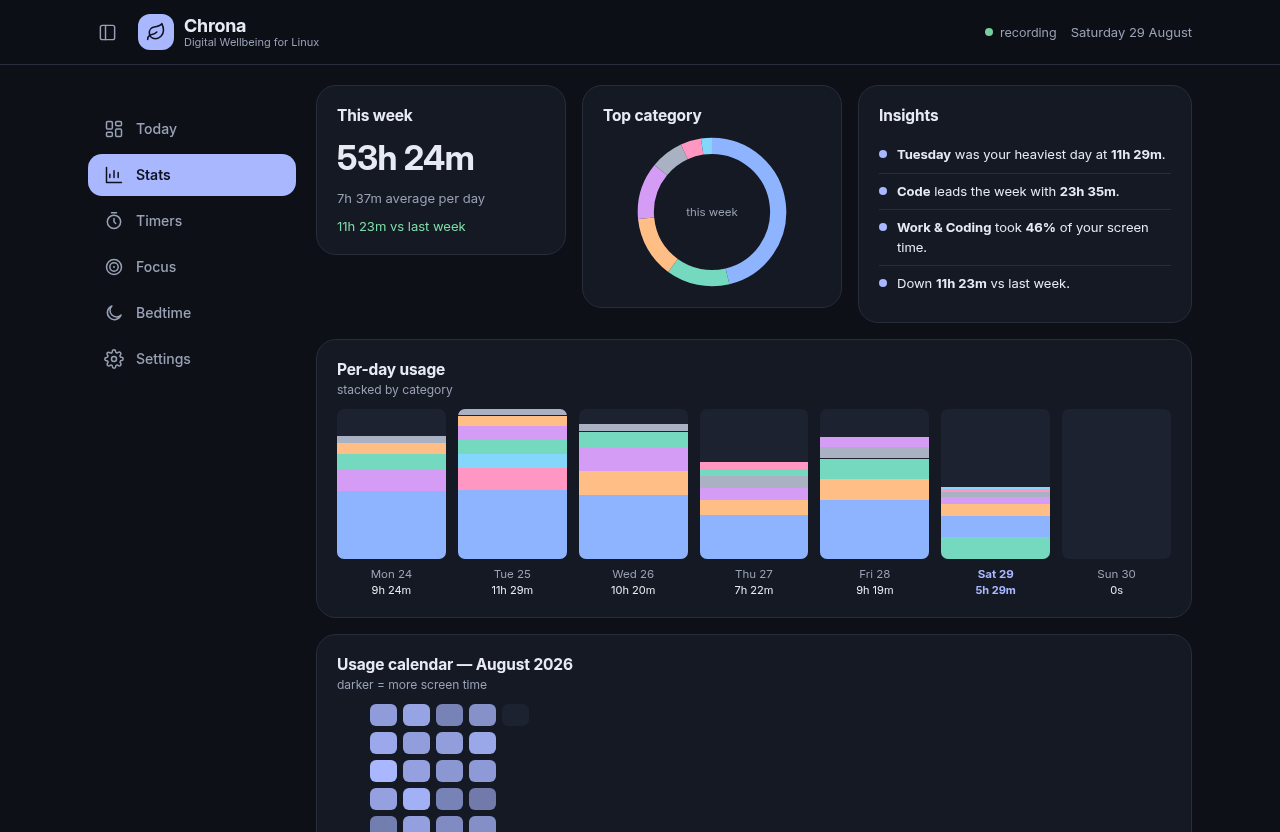
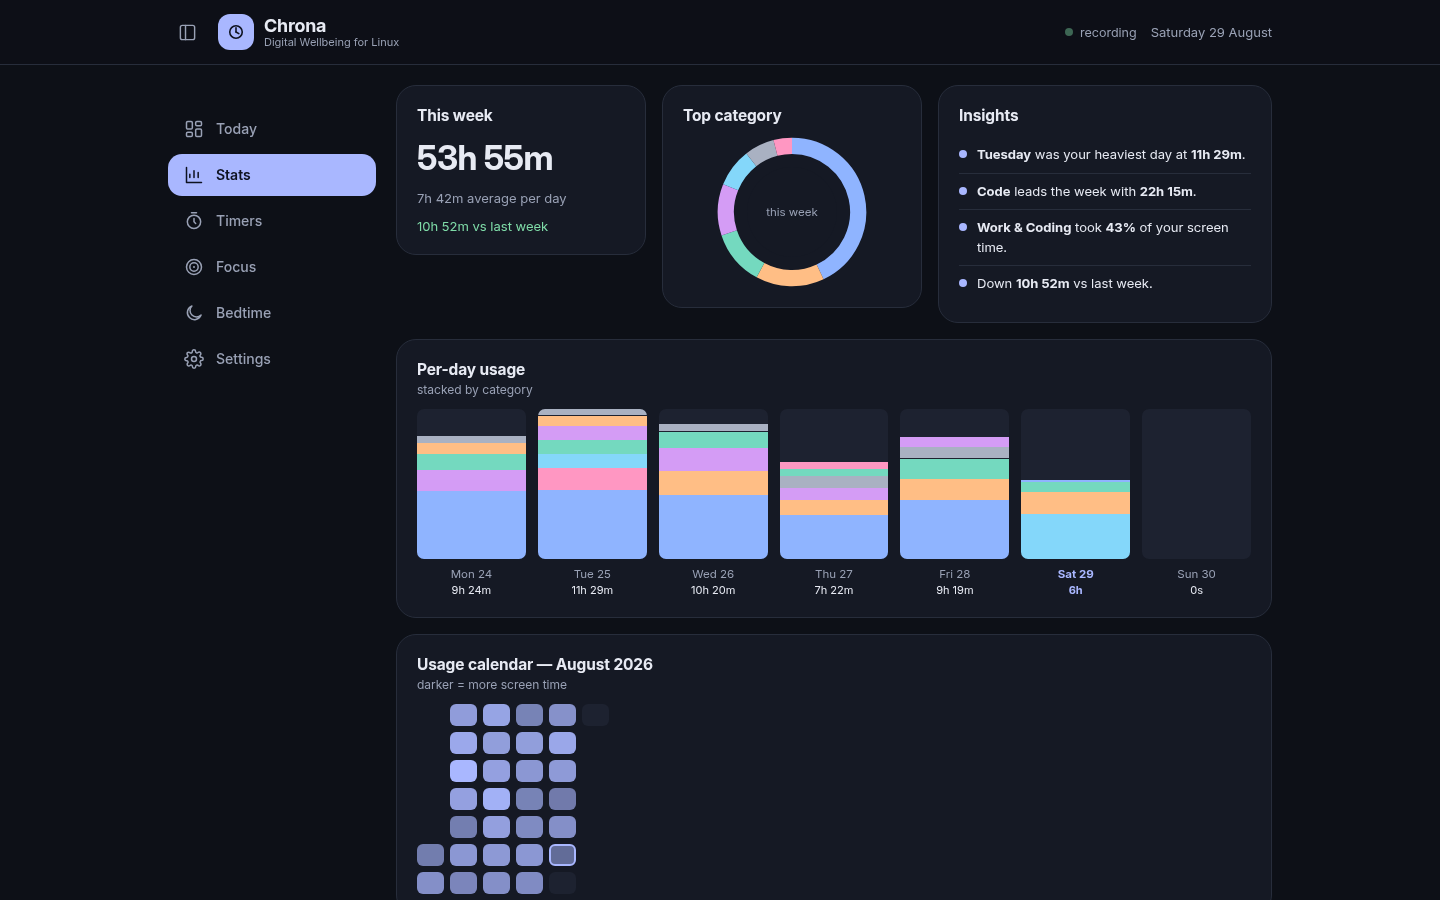
Production README and brand refresh
- New Material You app icon (gradient ring-clock): assets/icon.svg plus
  128/256/512 PNG exports; assets/logo.svg refreshed transparent mark
- GitHub social preview banner: docs/brand/social-preview.png (1280x640)
- Re-captured every screenshot from the live demo harness: real .desktop
  app icons visible, forced light/dark themes, all six views
- README rewritten production-grade: centered header + badge row (CI,
  release, license, platform, no-network, Rust+Slint), hero screenshot,
  feature grid, screenshot gallery with collapsible extras, compact
  competitor matrix, FAQ, honest install section; fixed clone URL
  (chrona-linux -> CodeAbhi826), AUR marked planned, PKGBUILD path shown
- PKGBUILD: correct repo URL; install icon.svg + PNG hicolor icons
- demo web: topbar brand tile is now the Chrona ring mark, /icon.svg
  favicon route, seed window title references the real repo slug
- .gitignore: __pycache__

diff --git a/tools/demo/web/index.html b/tools/demo/web/index.html
@@ -4,7 +4,7 @@
 <meta charset="utf-8">
 <meta name="viewport" content="width=device-width, initial-scale=1">
 <title>Chrona — Digital wellbeing for Linux</title>
-<link rel="icon" href="/logo.svg" type="image/svg+xml">
+<link rel="icon" href="/icon.svg" type="image/svg+xml">
 <link rel="stylesheet" href="/style.css">
 </head>
 <body>
@@ -16,7 +16,7 @@
     </button>
     <div class="brand">
       <span class="logo-tile">
-        <svg viewBox="0 0 24 24"><path d="M11 20A7 7 0 0 1 9.8 6.1C15.5 5 17 4.48 19 2c1 2 2 4.18 2 8 0 5.5-4.78 10-10 10Z"/><path d="M2 21c0-3 1.85-5.36 5.08-6C9.5 14.52 12 13 13 12"/></svg>
+        <svg viewBox="0 0 24 24"><circle cx="12" cy="12" r="7.5"/><path d="M12 12V7"/><path d="M12 12l3.4 2"/></svg>
       </span>
       <div class="brand-text">
         <span class="brand-name">Chrona</span>

diff --git a/tools/demo/server.py b/tools/demo/server.py
@@ -103,6 +103,8 @@ class Handler(BaseHTTPRequestHandler):
             cand = os.path.join(WEB, os.path.basename(u.path))
             if os.path.isfile(cand):
                 return self._file(cand)
+        if u.path == "/icon.svg":
+            return self._file(os.path.join(REPO, "assets", "icon.svg"), cache="public, max-age=3600")
         if u.path in ("/logo.svg", "/favicon.svg"):
             return self._file(os.path.join(REPO, "assets", "logo.svg"), cache="public, max-age=3600")
         # bundled app icons (web demo only) — safe basename inside web/icons/

diff --git a/tools/demo/seed.py b/tools/demo/seed.py
@@ -23,7 +23,7 @@ import time
 TITLES = {
     "firefox": [
         "Arch Wiki — pacman",
-        "GitHub · chrona-linux/chrona",
+        "GitHub · CodeAbhi826/chrona",
         "Hacker News",
         "r/linux — Reddit",
         "Gmail — Inbox (3)",

diff --git a/README.md b/README.md
@@ -1,82 +1,106 @@
+<div align="center">
+
+<img src="assets/icon.svg" width="128" alt="Chrona icon" />
+
 # Chrona
 
-**Digital wellbeing for every Linux desktop.** Screen time, per-app usage, category breakdowns and daily goals — with a Material You dashboard, a tiny always-on daemon, and **zero network access. Ever.**
+**Digital wellbeing for every Linux desktop.**
 
-<p>
-  <img alt="license" src="https://img.shields.io/badge/license-MIT-blue.svg">
-  <img alt="platform" src="https://img.shields.io/badge/platform-Linux-1793D1?logo=linux&logoColor=white">
-  <img alt="made with" src="https://img.shields.io/badge/made%20with-Rust%20%2B%20Slint-DEA584">
-</p>
+Screen time, per-app usage, category breakdowns and daily goals —
+a Material You dashboard on top of a tiny Rust daemon.
+**Zero network access. Ever.**
 
-<p align="center">
-  <img src="assets/logo.svg" width="96" alt="Chrona logo">
-</p>
+[![CI](https://github.com/CodeAbhi826/chrona/actions/workflows/ci.yml/badge.svg)](https://github.com/CodeAbhi826/chrona/actions/workflows/ci.yml)
+[![Release](https://img.shields.io/badge/release-v0.2.0-0B57D0)](https://github.com/CodeAbhi826/chrona/releases)
+[![License: MIT](https://img.shields.io/badge/license-MIT-blue.svg)](LICENSE)
+[![Platform](https://img.shields.io/badge/platform-Linux-1793D1?logo=linux&logoColor=white)](#compositor-support)
+[![Network](https://img.shields.io/badge/network-none-success)](#does-chrona-ever-touch-the-network)
+[![Made with Rust + Slint](https://img.shields.io/badge/made%20with-Rust%20%2B%20Slint-DEA584)](#architecture)
 
-Chrona is a from-scratch, Google-Digital-Wellbeing-style time tracker for the Linux desktop:
+[Features](#features) · [Screenshots](#screenshots) · [Install](#install) · [Compositor support](#compositor-support) · [Comparison](#how-chrona-compares) · [Scripting](#scripting-the-daemon) · [Roadmap](#roadmap) · [FAQ](#faq)
 
-- **Today / Week / Month dashboards** — total screen time, day timeline strip, hourly timeline, category donut, per-day stacked bars, month heatmap, week-over-week comparison.
-- **Per-app and per-window detail** — every app gets usage time, session counts and its most-used window titles (documents, sites, projects). PWAs (installed web apps) are tracked as first-class apps with their own name and icon.
-- **Smart categorisation** — built-in rules map apps to Work / Browsers / Communication / Media / Creative / Games / System, and title rules catch streaming inside browsers (Netflix in Firefox counts as *Media*, not *Browsers*). Your own rules always win.
-- **Real app names and icons** — the daemon resolves window ids against freedesktop `.desktop` entries (StartupWMClass, exec name, PWA app-ids), so rows show "LibreOffice Writer" with its real icon, not a machine id. Served to both the native UI and the web demo.
-- **Daily goals** — an overall **screen-time goal** plus per-app or per-category daily limits; exceeded limits are flagged on the dashboard, and the daemon runs an escalating notification sequence: a heads-up at 90 % of a limit, a critical notification the moment it is crossed, and optional reminders every 15 minutes while you stay over it.
-- **AFK-aware** — idle and lock-screen time is detected and subtracted (and shown as *away* time), so "screen time" means *actually at the machine*, with an Android-style **unlocks** counter.
-- **Pause tracking** — one switch (Settings, or the API) suspends recording; paused time is counted as away, never as usage.
-- **Native and lightweight** — a Rust daemon (~10 MB RAM, systemd user service) plus a GPU-accelerated Slint GUI. No Electron, no Chromium, no browser engine — the whole stack idles around ~50 MB.
-- **Private by architecture** — storage is one local SQLite file, the API is a Unix socket with `0600` permissions, and there is no telemetry, sync or network code to opt out of. Export everything to JSON or CSV anytime.
+<img src="docs/screenshots/today.png" width="880" alt="Chrona — Today dashboard with screen-time ring, hourly timeline, and per-app list with real icons" />
+
+</div>
+
+---
+
+Chrona is a from-scratch, [Digital Wellbeing](https://www.android.com/digital-wellbeing/)-style
+time tracker for the Linux desktop. A ~10 MB Rust daemon records which window
+is focused and subtracts the time you were away; a native Slint GUI (or the
+browser demo) turns that into rings, timelines and heatmaps; and a rules
+engine maps everything to categories you can re-edit at any time. Storage is
+one SQLite file on your disk — there is no account, no sync and no telemetry,
+because there is no network code at all.
+
+## Features
+
+- **Today / Week / Month dashboards** — screen-time ring with goal progress, day timeline strip, hourly activity bars, category donut, per-day stacked bars, month heatmap and week-over-week comparison.
+- **Per-app and per-window detail** — every app gets usage time, session counts and its most-used window titles (documents, sites, projects), expandable right in the list.
+- **Real app names and icons** — window IDs are resolved against freedesktop `.desktop` entries (`StartupWMClass`, exec name, PWA app-id), so rows show *LibreOffice Writer* with its real icon, not a machine ID.
+- **PWAs as first-class apps** — installed web apps (Chrome/Brave "Install app…") get their own name, icon and stats instead of counting as browser time.
+- **Smart categorisation** — built-in rules map apps to Work / Browsers / Communication / Media / Creative / Games / System, and title rules catch streaming inside browsers (Netflix in Firefox counts as *Media*, not *Browsers*). Your rules always win — and editing one re-categorises your entire history, because rules run at query time.
+- **Goals that escalate** — an overall screen-time goal plus per-app or per-category daily limits. You get a heads-up at 90 % of a limit, a critical notification the moment it is crossed, and optional reminders every 15 minutes while you stay over it.
+- **AFK-aware by design** — idle and lock-screen time is detected and subtracted (and shown as *away* time), so screen time means *actually at the machine*, with an Android-style unlocks counter.
+- **Pause tracking** — one switch (Settings, or the API) suspends recording; paused time counts as away, never as usage.
+- **Native and lightweight** — Rust daemon (systemd user service, ~10 MB RAM) plus a GPU-accelerated Slint GUI. No Electron, no Chromium, no browser engine — the whole stack idles around ~50 MB.
+- **Private by architecture** — one local SQLite file, a Unix-socket API with `0600` permissions, and no telemetry, sync or network code to opt out of. Export everything to JSON or CSV anytime.
 
 ## Screenshots
 
-Captured from the live demo harness (`tools/demo`) — the real daemon, simulated watcher feed:
+Captured from the live demo harness ([`tools/demo`](tools/demo/README.md)) —
+the real daemon and rules engine, a simulated window-event feed, real icons
+resolved from `.desktop` files:
 
-<p align="center">
-  <img src="docs/screenshots/today-material-you.png" width="49%" alt="Today — Material You (default theme)">
-  <img src="docs/screenshots/today-windows.png" width="49%" alt="Today — expandable per-window titles">
-</p>
-<p align="center">
-  <img src="docs/screenshots/stats-material-you.png" width="49%" alt="Stats — per-day stacked, usage calendar, insights">
-  <img src="docs/screenshots/timers-material-you.png" width="49%" alt="Timers — daily limits per app/category">
-</p>
-<p align="center">
-  <img src="docs/screenshots/focus-material-you.png" width="49%" alt="Focus — session timer">
-  <img src="docs/screenshots/today-dark.png" width="49%" alt="Today — dark theme">
-</p>
+| Today — dashboards, goals, real icons | Today — expandable per-window titles |
+|---|---|
+| <img src="docs/screenshots/today.png" width="430" alt="Today view" /> | <img src="docs/screenshots/today-windows.png" width="430" alt="Per-window titles" /> |
 
-## Compositor support
+| Stats — week bars, heatmap, insights | Timers — daily limits per app / category |
+|---|---|
+| <img src="docs/screenshots/stats.png" width="430" alt="Stats view" /> | <img src="docs/screenshots/timers.png" width="430" alt="Timers view" /> |
 
-| Session | Window tracking | Idle tracking | Notes |
-|---|---|---|---|
-| **KDE Plasma 6 (Wayland)** | ✅ KWin script → D-Bus | ✅ ScreenSaver D-Bus | One-click install from Settings |
-| **Sway / Hyprland / river / niri** (Wayland) | ✅ `wlr-foreign-toplevel` | ✅ `ext-idle-notify` | Works out of the box |
-| **Any X11 session** (incl. KDE/GNOME on X11) | ✅ EWMH polling | ✅ MIT-SCREEN-SAVER | Works out of the box |
-| **GNOME Wayland** | ⚠ v0.2: no window events | ✅ ScreenSaver D-Bus | Needs a GNOME Shell extension — see [the roadmap](#roadmap) |
-| PWAs | ✅ | ✅ | PWAs are separate windows with their own titles, so they are tracked like any app |
+| Bedtime — schedule + greyscale preview | Today — dark theme |
+|---|---|
+| <img src="docs/screenshots/bedtime.png" width="430" alt="Bedtime view" /> | <img src="docs/screenshots/today-dark.png" width="430" alt="Today, dark theme" /> |
 
-KDE Wayland deserves a note: KWin intentionally does not implement the
-`wlr-foreign-toplevel` protocol other compositors use. Chrona ships a tiny
-KWin script (~30 lines) that reports window activations over the session
-bus — the same trick nothing else on the market combines with a full GUI.
+<details>
+<summary><b>More screenshots</b> — Focus timer, Settings, Stats in dark</summary>
+
+| Focus — session timer | Settings |
+|---|---|
+| <img src="docs/screenshots/focus.png" width="430" alt="Focus view" /> | <img src="docs/screenshots/settings.png" width="430" alt="Settings view" /> |
+
+<img src="docs/screenshots/stats-dark.png" width="620" alt="Stats, dark theme" />
+
+</details>
 
 ## Install
 
-### Arch Linux (AUR)
+### From source (any distro)
+
+Requires [Rust](https://rustup.rs/) (stable) and a Linux desktop. The build is
+dependency-light — SQLite is bundled, Wayland/X11 libraries are loaded at
+runtime.
 
 ```bash
-yay -S chrona            # release build
-# or: yay -S chrona-git  # from source, tracks main
-```
-
-### From source
-
-```bash
-git clone https://github.com/chrona-linux/chrona
+git clone https://github.com/CodeAbhi826/chrona
 cd chrona
 cargo build --release -p chronad -p chrona
 install -Dm755 target/release/{chronad,chrona} -t ~/.local/bin/
 install -Dm644 packaging/chrona.service ~/.config/systemd/user/
 ```
 
-Requires: Rust (stable), a Linux desktop. The build is dependency-light —
-SQLite is bundled, Wayland/X11 are loaded at runtime.
+### Arch Linux
+
+An AUR package is planned; until then, build with the packaged
+[`PKGBUILD`](packaging/PKGBUILD) (installs binaries, systemd unit, `.desktop`
+entry and hicolor icons):
+
+```bash
+cd chrona/packaging
+makepkg -si
+```
 
 ### First run
 
@@ -85,8 +109,8 @@ systemctl --user enable --now chrona   # start the daemon at every login
 chrona                                 # open the dashboard
 ```
 
-On **KDE Plasma Wayland**, click **Install KWin watcher** in Chrona →
-Settings (or run `./kwin/install.sh`), then focus a few windows.
+On **KDE Plasma Wayland**, click **Install KWin watcher** in Chrona → Settings
+(or run `./kwin/install.sh`), then focus a few windows.
 
 On **Sway / Hyprland / river / niri / any X11 session**, tracking starts
 immediately — nothing to install.
@@ -108,7 +132,22 @@ events are fake:
 
 Details in [tools/demo/README.md](tools/demo/README.md).
 
-## The design, in one picture
+## Compositor support
+
+| Session | Window tracking | Idle tracking | Notes |
+|---|---|---|---|
+| **KDE Plasma 6 (Wayland)** | ✅ KWin script → D-Bus | ✅ ScreenSaver D-Bus | One-click install from Settings |
+| **Sway / Hyprland / river / niri** (Wayland) | ✅ `wlr-foreign-toplevel` | ✅ `ext-idle-notify` | Works out of the box |
+| **Any X11 session** (incl. KDE/GNOME on X11) | ✅ EWMH polling | ✅ MIT-SCREEN-SAVER | Works out of the box |
+| **GNOME Wayland** | ⚠ v0.2: no window events | ✅ ScreenSaver D-Bus | Needs a GNOME Shell extension — see [the roadmap](#roadmap) |
+| PWAs | ✅ | ✅ | PWAs are separate windows with their own titles, so they are tracked like any app |
+
+KDE Wayland deserves a note: KWin intentionally does not implement the
+`wlr-foreign-toplevel` protocol other compositors use. Chrona ships a tiny
+KWin script (~30 lines) that reports window activations over the session
+bus — the same trick nothing else on the market combines with a full GUI.
+
+## Architecture
 
 ```
 ┌────────────────────────────── your session ──────────────────────────────┐
@@ -160,38 +199,76 @@ echo '{"id":3,"cmd":"rule.add","args":{"pattern":"kitty|konsole","field":"app","
 Editing rules re-categorises your **entire history** — categorisation happens
 at query time, never at write time.
 
-## Why not…?
+## How Chrona compares
 
-- **ActivityWatch?** Great tracker, web-based dashboard, but no goals, no
-  enforcement, and on KDE Wayland you need awatcher + workarounds. Chrona is
-  native, single-purpose and goal-oriented. (Full comparison:
-  [docs/COMPETITORS.md](docs/COMPETITORS.md).)
-- **Electron?** A wellbeing app that costs 300 MB of RAM to show you a ring
-  chart is its own punchline. Chrona is Rust end-to-end.
-- **A browser extension for per-URL tracking?** On the roadmap — PWAs and
-  app-mode windows already get title-level tracking for free.
+The short version (the [full matrix](docs/COMPETITORS.md) covers six tools
+and forty capabilities):
 
-## Fonts & theming
+| | Chrona | ActivityWatch | RescueTime | Google Digital Wellbeing |
+|---|---|---|---|---|
+| 100 % local, no account | ✅ | ✅ | ❌ cloud | ❌ device-linked |
+| Native (non-Electron) UI | ✅ Slint | 🟡 web dashboard | ❌ | n/a (phone) |
+| Overall screen-time goal | ✅ | ❌ | ❌ | ✅ |
+| Per-app / per-category limits | ✅ | ❌ | ✅ | ✅ |
+| Escalating limit alerts | ✅ 90 % → critical → nags | ❌ | 🟡 | 🟡 |
+| Real app names + icons | ✅ `.desktop` + icon theme | 🟡 | ✅ | ✅ |
+| PWA tracked as its own app | ✅ | 🟡 browser time | 🟡 | 🟡 |
+| KDE Plasma Wayland, out of the box | ✅ KWin script | 🟡 awatcher | ❌ | n/a |
+| Blocking / enforcement | ❌ roadmap | ❌ | ✅ premium | ✅ |
+| Per-URL browser tracking | ❌ roadmap | ✅ extension | ✅ extension | n/a |
 
-Material You light is the default; **Settings → Appearance** flips to the
-**dark theme**, and the choice persists. If
-[Google Sans](https://fonts.google.com/knowledge/catalog) is installed on
-your system Chrona uses it; otherwise it falls back to the bundled
-[Inter](https://rsms.me/inter/) (SIL OFL 1.1) — visually closest, legally
-bundlable.
+Honest summary: ActivityWatch tracks but has no goals layer; RescueTime and
+Cold Turkey enforce but are cloud-bound or closed-source; Digital Wellbeing
+is the UX gold standard but lives on your phone. Chrona is the local-first,
+goal-driven, native take for the Linux desktop.
 
 ## Roadmap
 
 - [ ] GNOME Wayland shell extension (window events)
-- [ ] Focus sessions with Do Not Disturb
-- [ ] Optional enforcement: soft blocking when a daily limit is hit
+- [ ] Enforcement: soft-block "take a break" screen when a limit is hit
+- [ ] Focus sessions wired to Do Not Disturb (KDE + GNOME D-Bus)
 - [ ] Per-day-of-week limit schedules (weekend vs weekday budgets)
+- [ ] Weekly report notification (Sunday-evening digest)
 - [ ] Wind-down schedule (grayscale/dim reminders)
 - [ ] Browser companion for per-URL granularity
-- [ ] Weekly report notification
 
 Feature gaps vs the competition are tracked in
 [docs/COMPETITORS.md](docs/COMPETITORS.md).
+
+## FAQ
+
+### Where does my data live?
+
+In one SQLite database — `~/.local/share/chrona/chrona.db` (WAL mode). Back
+it up, copy it between machines, inspect it with `sqlite3`, or delete it to
+start over. `export` dumps everything to JSON/CSV.
+
+### Does Chrona ever touch the network?
+
+No. There is no telemetry, no update pinger, no account, no sync — the
+binary contains no network client code at all. The daemon's only interface
+is a Unix-domain socket with `0600` permissions, readable only by your user.
+The architecture makes "it secretly phones home" impossible, not just
+promised.
+
+### What does it cost?
+
+~10 MB RAM for the daemon, ~50 MB for the GUI (GPU-accelerated Slint), a few
+seconds of CPU per day. The event pipeline folds window activations into
+second-resolution rows; a year of history stays in single-digit megabytes.
+
+### Why is GNOME Wayland only partially supported?
+
+GNOME Shell, like KDE's KWin, doesn't implement `wlr-foreign-toplevel` — and
+unlike KDE, it has no user-installable script hook. Window-event tracking
+needs a GNOME Shell extension (see the [roadmap](#roadmap)); idle tracking
+already works there today.
+
+### I'm on KDE Wayland and nothing is being tracked
+
+Install the KWin watcher: Chrona → Settings → **Install KWin watcher**, then
+switch windows a few times. See [docs/WATCHERS.md](docs/WATCHERS.md) for
+verification steps and troubleshooting.
 
 ## Contributing
 
@@ -202,7 +279,8 @@ deliberately pluggable: a new compositor is one new module in
 
 ## License
 
-[MIT](LICENSE) — Chrona contributors. Bundled Inter is [SIL OFL 1.1](assets/fonts/Inter-OFL.txt).
+[MIT](LICENSE) — Chrona contributors. Bundled Inter is
+[SIL OFL 1.1](assets/fonts/Inter-OFL.txt).
 
 Inspired by the UX of Google's Digital Wellbeing, and by years of
 ActivityWatch normalising local-only time tracking. Both are great; Chrona
